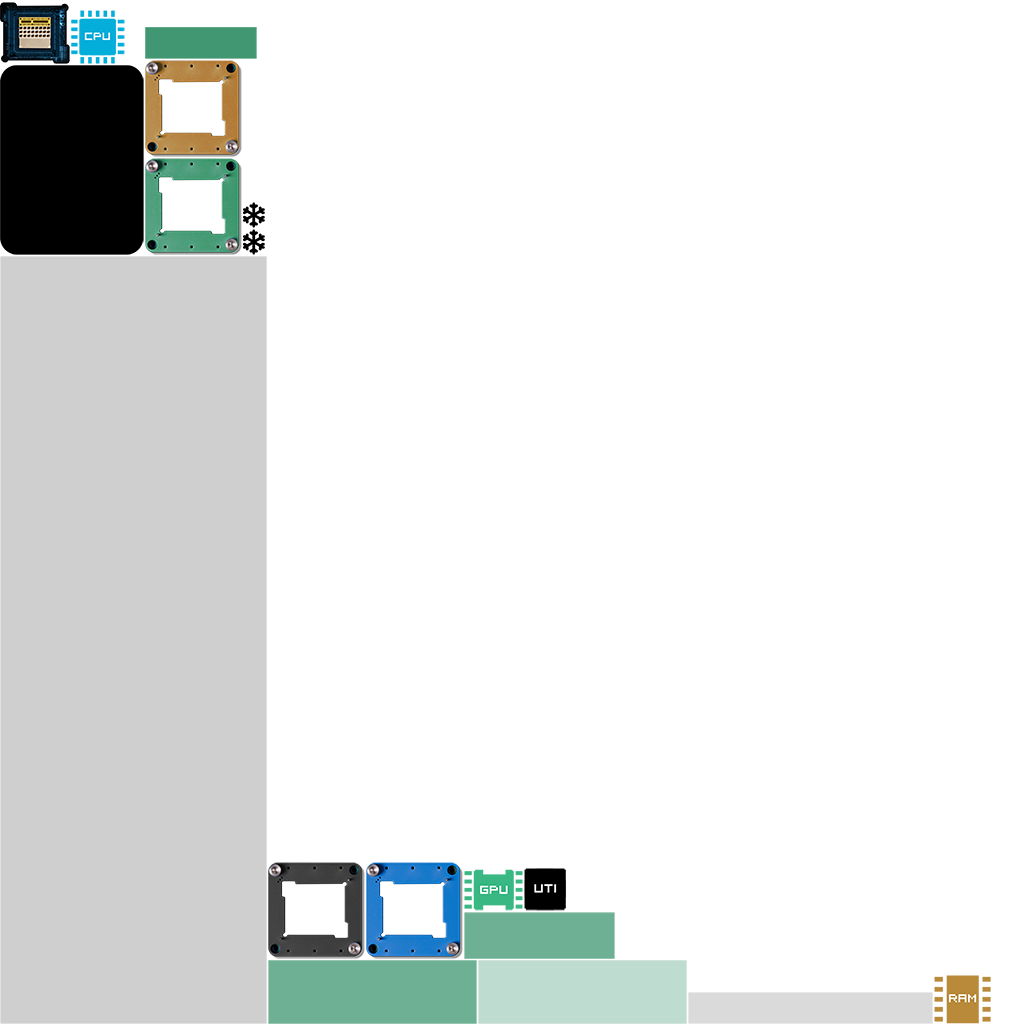
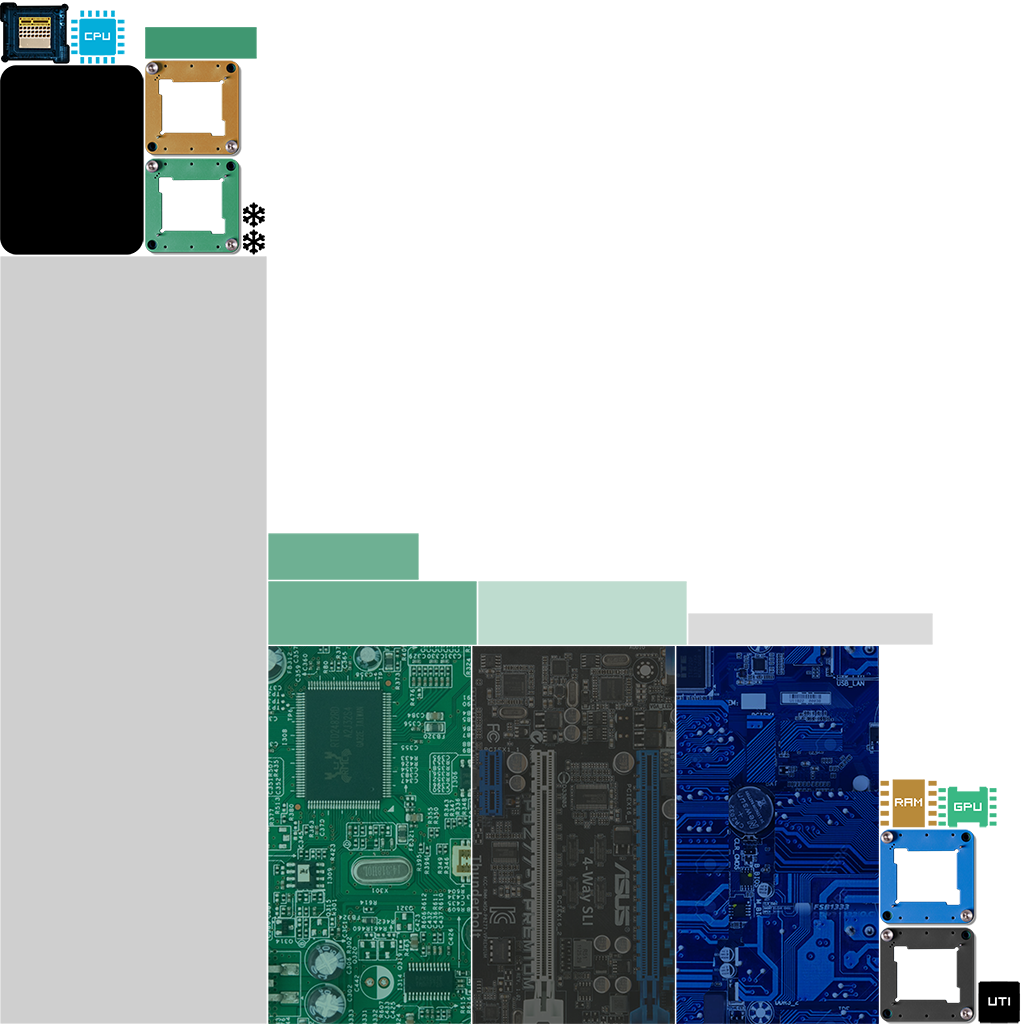
stuff

Changed region(s): [[0.25, 0.5, 1.0, 1.0]]

diff --git a/Assets/Player.cs b/Assets/Player.cs
@@ -81,10 +81,12 @@ public class Player {
         statUpgrades.Add(new StatUpgrade(EnergyType.Green, 1, "Slots for exp. cards", 250));
         statUpgrades.Add(new StatUpgrade(EnergyType.Green, 3, "Super IO Chip", 400));
 
+        // unlock more energy
         statUpgrades.Add(new StatUpgrade(EnergyType.Black, 1, "CPU Socket update", 25));
         statUpgrades.Add(new StatUpgrade(EnergyType.Black, 1, "A clock generator", 1000));
         //statUpgrades.Add(new StatUpgrade(EnergyType.Black, 1, "A clock generator", 1000));
 
+        // unlock motherboards
         statUpgrades.Add(new StatUpgrade(EnergyType.Empty, 1, "New Motherboards", 75));
         statUpgrades.Add(new StatUpgrade(EnergyType.Empty, 1, "New Motherboards", 500));
 
